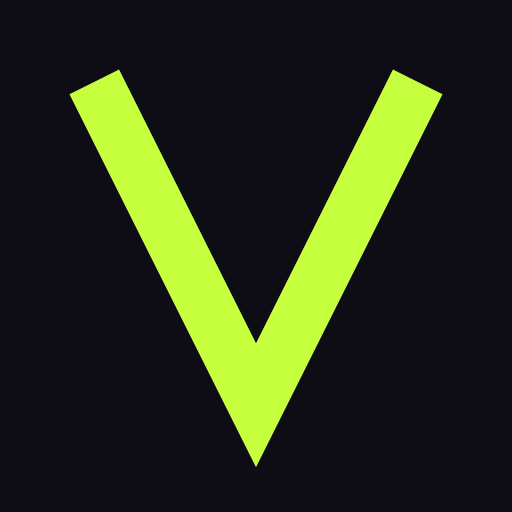
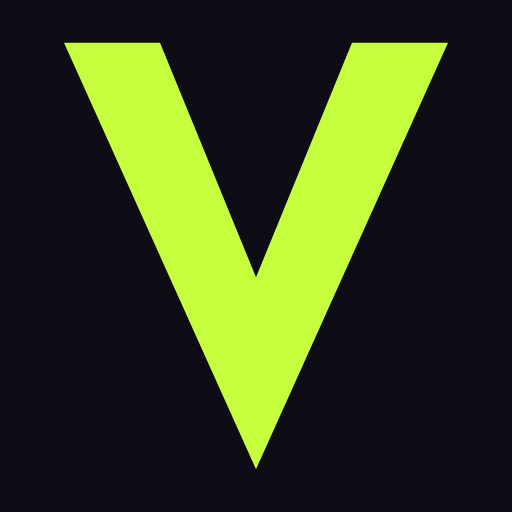
New graphic V mark, hover dropdowns for Services/Produits
Replace the thin chevron favicon with a bold solid V mark; add
icon+wordmark lockup in nav/footer. Add hover-triggered dropdown
menus on Services (4 offerings) and Produits (Solen) nav items.

diff --git a/services.html b/services.html
@@ -19,10 +19,46 @@
 <body>
 
 <nav>
-  <a href="index.html" class="logo">VERZ<span class="dot">O</span></a>
+  <a href="index.html" class="logo">
+    <svg width="20" height="20" viewBox="0 0 24 24" aria-hidden="true"><polygon points="3,2 12,22 21,2 16.5,2 12,13 7.5,2" fill="#C6FF3D"/></svg>
+    VERZ<span class="dot">O</span>
+  </a>
   <div class="navlinks">
-    <a href="services.html" class="navlink active">Services</a>
-    <a href="produits.html" class="navlink">Produits</a>
+    <div class="nav-has-dropdown">
+      <a href="services.html" class="navlink active">Services</a>
+      <div class="nav-dropdown">
+        <a class="nav-dropdown-item" href="services.html#mobile">
+          <svg aria-hidden="true" width="20" height="20" viewBox="0 0 24 24" fill="none" stroke="var(--white)" stroke-width="1.5" stroke-linecap="round" stroke-linejoin="round"><rect x="7" y="2" width="10" height="20" rx="2"/><line x1="11" y1="18" x2="13" y2="18"/></svg>
+          <div class="title">Mobile App</div>
+          <div class="desc">iOS et Android, natif ou cross-platform.</div>
+        </a>
+        <a class="nav-dropdown-item" href="services.html#website">
+          <svg aria-hidden="true" width="20" height="20" viewBox="0 0 24 24" fill="none" stroke="var(--white)" stroke-width="1.5" stroke-linecap="round" stroke-linejoin="round"><rect x="2" y="4" width="20" height="16" rx="2"/><line x1="2" y1="9" x2="22" y2="9"/></svg>
+          <div class="title">Website</div>
+          <div class="desc">Sites rapides, pensés pour convertir.</div>
+        </a>
+        <a class="nav-dropdown-item" href="services.html#brand">
+          <svg aria-hidden="true" width="20" height="20" viewBox="0 0 24 24" fill="none" stroke="var(--white)" stroke-width="1.5" stroke-linecap="round" stroke-linejoin="round"><path d="M4 20l4-1 10-10-3-3L5 16l-1 4z"/><path d="M14 6l3 3"/></svg>
+          <div class="title">Brand Identity</div>
+          <div class="desc">Logo, charte, ton de voix.</div>
+        </a>
+        <a class="nav-dropdown-item" href="services.html#software">
+          <svg aria-hidden="true" width="20" height="20" viewBox="0 0 24 24" fill="none" stroke="var(--white)" stroke-width="1.5" stroke-linecap="round" stroke-linejoin="round"><rect x="2" y="4" width="20" height="16" rx="2"/><polyline points="6 9 10 12 6 15"/><line x1="12" y1="15" x2="17" y2="15"/></svg>
+          <div class="title">Custom Software</div>
+          <div class="desc">Outils internes, dashboards, automatisations.</div>
+        </a>
+      </div>
+    </div>
+    <div class="nav-has-dropdown">
+      <a href="produits.html" class="navlink">Produits</a>
+      <div class="nav-dropdown nav-dropdown-single">
+        <a class="nav-dropdown-item" href="produits.html">
+          <svg aria-hidden="true" width="20" height="20" viewBox="0 0 24 24" fill="none" stroke="var(--white)" stroke-width="1.5" stroke-linecap="round" stroke-linejoin="round"><polyline points="3 17 9 11 13 15 21 6"/><polyline points="14 6 21 6 21 13"/></svg>
+          <div class="title">Solen <span style="color:var(--lime); font-weight:600;">· Coming soon</span></div>
+          <div class="desc">IA d'analyse comportementale pour sites web, en développement.</div>
+        </a>
+      </div>
+    </div>
     <a href="studio.html" class="navlink">Studio</a>
     <a href="contact.html" class="navlink">Contact</a>
     <a class="btn-primary" href="mailto:hello@verzo.studio">Démarrer un projet</a>
@@ -40,7 +76,7 @@
 <section class="on-black reveal">
   <div class="wrap">
     <div class="services-grid reveal-stagger" style="border-color:var(--line-dark);">
-      <div class="service-card" style="border-color:var(--line-dark);">
+      <div id="mobile" class="service-card" style="border-color:var(--line-dark); scroll-margin-top:96px;">
         <span class="kicker mono" style="margin-bottom:0;">01</span>
         <h3>Mobile App</h3>
         <p>Applications iOS et Android, natives ou cross-platform (React Native / Flutter selon le besoin). Pensées pour être utilisées, pas seulement téléchargées.</p>
@@ -51,7 +87,7 @@
           <li>Notifications, paiements in-app, analytics</li>
         </ul>
       </div>
-      <div class="service-card" style="border-color:var(--line-dark);">
+      <div id="website" class="service-card" style="border-color:var(--line-dark); scroll-margin-top:96px;">
         <span class="kicker mono" style="margin-bottom:0;">02</span>
         <h3>Website</h3>
         <p>Sites vitrines et e-commerce rapides, construits pour convertir, pas pour scroller dans le vide.</p>
@@ -62,7 +98,7 @@
           <li>Hébergement et mise en production</li>
         </ul>
       </div>
-      <div class="service-card" style="border-color:var(--line-dark);">
+      <div id="brand" class="service-card" style="border-color:var(--line-dark); scroll-margin-top:96px;">
         <span class="kicker mono" style="margin-bottom:0;">03</span>
         <h3>Brand Identity</h3>
         <p>Logo, charte, ton de voix. Une identité qui tient debout sur une carte de visite comme sur un panneau 4x3.</p>
@@ -72,7 +108,7 @@
           <li>Déclinaisons print et digital</li>
         </ul>
       </div>
-      <div class="service-card" style="border-color:var(--line-dark);">
+      <div id="software" class="service-card" style="border-color:var(--line-dark); scroll-margin-top:96px;">
         <span class="kicker mono" style="margin-bottom:0;">04</span>
         <h3>Custom Software</h3>
         <p>Outils internes, dashboards, automatisations. Le logiciel que votre équipe ouvre vraiment, tous les jours.</p>
@@ -106,7 +142,10 @@
 </section>
 
 <footer>
-  <a href="index.html" class="logo">VERZ<span style="color:var(--lime);">O</span></a>
+  <a href="index.html" class="logo">
+    <svg width="20" height="20" viewBox="0 0 24 24" aria-hidden="true"><polygon points="3,2 12,22 21,2 16.5,2 12,13 7.5,2" fill="#C6FF3D"/></svg>
+    VERZ<span class="dot">O</span>
+  </a>
   <div>© 2026 Verzo, agence produit, France</div>
 </footer>
 

diff --git a/produits.html b/produits.html
@@ -19,10 +19,46 @@
 <body>
 
 <nav>
-  <a href="index.html" class="logo">VERZ<span class="dot">O</span></a>
+  <a href="index.html" class="logo">
+    <svg width="20" height="20" viewBox="0 0 24 24" aria-hidden="true"><polygon points="3,2 12,22 21,2 16.5,2 12,13 7.5,2" fill="#C6FF3D"/></svg>
+    VERZ<span class="dot">O</span>
+  </a>
   <div class="navlinks">
-    <a href="services.html" class="navlink">Services</a>
-    <a href="produits.html" class="navlink active">Produits</a>
+    <div class="nav-has-dropdown">
+      <a href="services.html" class="navlink">Services</a>
+      <div class="nav-dropdown">
+        <a class="nav-dropdown-item" href="services.html#mobile">
+          <svg aria-hidden="true" width="20" height="20" viewBox="0 0 24 24" fill="none" stroke="var(--white)" stroke-width="1.5" stroke-linecap="round" stroke-linejoin="round"><rect x="7" y="2" width="10" height="20" rx="2"/><line x1="11" y1="18" x2="13" y2="18"/></svg>
+          <div class="title">Mobile App</div>
+          <div class="desc">iOS et Android, natif ou cross-platform.</div>
+        </a>
+        <a class="nav-dropdown-item" href="services.html#website">
+          <svg aria-hidden="true" width="20" height="20" viewBox="0 0 24 24" fill="none" stroke="var(--white)" stroke-width="1.5" stroke-linecap="round" stroke-linejoin="round"><rect x="2" y="4" width="20" height="16" rx="2"/><line x1="2" y1="9" x2="22" y2="9"/></svg>
+          <div class="title">Website</div>
+          <div class="desc">Sites rapides, pensés pour convertir.</div>
+        </a>
+        <a class="nav-dropdown-item" href="services.html#brand">
+          <svg aria-hidden="true" width="20" height="20" viewBox="0 0 24 24" fill="none" stroke="var(--white)" stroke-width="1.5" stroke-linecap="round" stroke-linejoin="round"><path d="M4 20l4-1 10-10-3-3L5 16l-1 4z"/><path d="M14 6l3 3"/></svg>
+          <div class="title">Brand Identity</div>
+          <div class="desc">Logo, charte, ton de voix.</div>
+        </a>
+        <a class="nav-dropdown-item" href="services.html#software">
+          <svg aria-hidden="true" width="20" height="20" viewBox="0 0 24 24" fill="none" stroke="var(--white)" stroke-width="1.5" stroke-linecap="round" stroke-linejoin="round"><rect x="2" y="4" width="20" height="16" rx="2"/><polyline points="6 9 10 12 6 15"/><line x1="12" y1="15" x2="17" y2="15"/></svg>
+          <div class="title">Custom Software</div>
+          <div class="desc">Outils internes, dashboards, automatisations.</div>
+        </a>
+      </div>
+    </div>
+    <div class="nav-has-dropdown">
+      <a href="produits.html" class="navlink active">Produits</a>
+      <div class="nav-dropdown nav-dropdown-single">
+        <a class="nav-dropdown-item" href="produits.html">
+          <svg aria-hidden="true" width="20" height="20" viewBox="0 0 24 24" fill="none" stroke="var(--white)" stroke-width="1.5" stroke-linecap="round" stroke-linejoin="round"><polyline points="3 17 9 11 13 15 21 6"/><polyline points="14 6 21 6 21 13"/></svg>
+          <div class="title">Solen <span style="color:var(--lime); font-weight:600;">· Coming soon</span></div>
+          <div class="desc">IA d'analyse comportementale pour sites web, en développement.</div>
+        </a>
+      </div>
+    </div>
     <a href="studio.html" class="navlink">Studio</a>
     <a href="contact.html" class="navlink">Contact</a>
     <a class="btn-primary" href="mailto:hello@verzo.studio">Démarrer un projet</a>
@@ -73,7 +109,10 @@
 </section>
 
 <footer>
-  <a href="index.html" class="logo">VERZ<span style="color:var(--lime);">O</span></a>
+  <a href="index.html" class="logo">
+    <svg width="20" height="20" viewBox="0 0 24 24" aria-hidden="true"><polygon points="3,2 12,22 21,2 16.5,2 12,13 7.5,2" fill="#C6FF3D"/></svg>
+    VERZ<span class="dot">O</span>
+  </a>
   <div>© 2026 Verzo, agence produit, France</div>
 </footer>
 

diff --git a/contact.html b/contact.html
@@ -19,10 +19,46 @@
 <body>
 
 <nav>
-  <a href="index.html" class="logo">VERZ<span class="dot">O</span></a>
+  <a href="index.html" class="logo">
+    <svg width="20" height="20" viewBox="0 0 24 24" aria-hidden="true"><polygon points="3,2 12,22 21,2 16.5,2 12,13 7.5,2" fill="#C6FF3D"/></svg>
+    VERZ<span class="dot">O</span>
+  </a>
   <div class="navlinks">
-    <a href="services.html" class="navlink">Services</a>
-    <a href="produits.html" class="navlink">Produits</a>
+    <div class="nav-has-dropdown">
+      <a href="services.html" class="navlink">Services</a>
+      <div class="nav-dropdown">
+        <a class="nav-dropdown-item" href="services.html#mobile">
+          <svg aria-hidden="true" width="20" height="20" viewBox="0 0 24 24" fill="none" stroke="var(--white)" stroke-width="1.5" stroke-linecap="round" stroke-linejoin="round"><rect x="7" y="2" width="10" height="20" rx="2"/><line x1="11" y1="18" x2="13" y2="18"/></svg>
+          <div class="title">Mobile App</div>
+          <div class="desc">iOS et Android, natif ou cross-platform.</div>
+        </a>
+        <a class="nav-dropdown-item" href="services.html#website">
+          <svg aria-hidden="true" width="20" height="20" viewBox="0 0 24 24" fill="none" stroke="var(--white)" stroke-width="1.5" stroke-linecap="round" stroke-linejoin="round"><rect x="2" y="4" width="20" height="16" rx="2"/><line x1="2" y1="9" x2="22" y2="9"/></svg>
+          <div class="title">Website</div>
+          <div class="desc">Sites rapides, pensés pour convertir.</div>
+        </a>
+        <a class="nav-dropdown-item" href="services.html#brand">
+          <svg aria-hidden="true" width="20" height="20" viewBox="0 0 24 24" fill="none" stroke="var(--white)" stroke-width="1.5" stroke-linecap="round" stroke-linejoin="round"><path d="M4 20l4-1 10-10-3-3L5 16l-1 4z"/><path d="M14 6l3 3"/></svg>
+          <div class="title">Brand Identity</div>
+          <div class="desc">Logo, charte, ton de voix.</div>
+        </a>
+        <a class="nav-dropdown-item" href="services.html#software">
+          <svg aria-hidden="true" width="20" height="20" viewBox="0 0 24 24" fill="none" stroke="var(--white)" stroke-width="1.5" stroke-linecap="round" stroke-linejoin="round"><rect x="2" y="4" width="20" height="16" rx="2"/><polyline points="6 9 10 12 6 15"/><line x1="12" y1="15" x2="17" y2="15"/></svg>
+          <div class="title">Custom Software</div>
+          <div class="desc">Outils internes, dashboards, automatisations.</div>
+        </a>
+      </div>
+    </div>
+    <div class="nav-has-dropdown">
+      <a href="produits.html" class="navlink">Produits</a>
+      <div class="nav-dropdown nav-dropdown-single">
+        <a class="nav-dropdown-item" href="produits.html">
+          <svg aria-hidden="true" width="20" height="20" viewBox="0 0 24 24" fill="none" stroke="var(--white)" stroke-width="1.5" stroke-linecap="round" stroke-linejoin="round"><polyline points="3 17 9 11 13 15 21 6"/><polyline points="14 6 21 6 21 13"/></svg>
+          <div class="title">Solen <span style="color:var(--lime); font-weight:600;">· Coming soon</span></div>
+          <div class="desc">IA d'analyse comportementale pour sites web, en développement.</div>
+        </a>
+      </div>
+    </div>
     <a href="studio.html" class="navlink">Studio</a>
     <a href="contact.html" class="navlink active">Contact</a>
     <a class="btn-primary" href="mailto:hello@verzo.studio">Démarrer un projet</a>
@@ -70,7 +106,10 @@
 </section>
 
 <footer>
-  <a href="index.html" class="logo">VERZ<span style="color:var(--lime);">O</span></a>
+  <a href="index.html" class="logo">
+    <svg width="20" height="20" viewBox="0 0 24 24" aria-hidden="true"><polygon points="3,2 12,22 21,2 16.5,2 12,13 7.5,2" fill="#C6FF3D"/></svg>
+    VERZ<span class="dot">O</span>
+  </a>
   <div>© 2026 Verzo, agence produit, France</div>
 </footer>
 

diff --git a/studio.html b/studio.html
@@ -19,10 +19,46 @@
 <body>
 
 <nav>
-  <a href="index.html" class="logo">VERZ<span class="dot">O</span></a>
+  <a href="index.html" class="logo">
+    <svg width="20" height="20" viewBox="0 0 24 24" aria-hidden="true"><polygon points="3,2 12,22 21,2 16.5,2 12,13 7.5,2" fill="#C6FF3D"/></svg>
+    VERZ<span class="dot">O</span>
+  </a>
   <div class="navlinks">
-    <a href="services.html" class="navlink">Services</a>
-    <a href="produits.html" class="navlink">Produits</a>
+    <div class="nav-has-dropdown">
+      <a href="services.html" class="navlink">Services</a>
+      <div class="nav-dropdown">
+        <a class="nav-dropdown-item" href="services.html#mobile">
+          <svg aria-hidden="true" width="20" height="20" viewBox="0 0 24 24" fill="none" stroke="var(--white)" stroke-width="1.5" stroke-linecap="round" stroke-linejoin="round"><rect x="7" y="2" width="10" height="20" rx="2"/><line x1="11" y1="18" x2="13" y2="18"/></svg>
+          <div class="title">Mobile App</div>
+          <div class="desc">iOS et Android, natif ou cross-platform.</div>
+        </a>
+        <a class="nav-dropdown-item" href="services.html#website">
+          <svg aria-hidden="true" width="20" height="20" viewBox="0 0 24 24" fill="none" stroke="var(--white)" stroke-width="1.5" stroke-linecap="round" stroke-linejoin="round"><rect x="2" y="4" width="20" height="16" rx="2"/><line x1="2" y1="9" x2="22" y2="9"/></svg>
+          <div class="title">Website</div>
+          <div class="desc">Sites rapides, pensés pour convertir.</div>
+        </a>
+        <a class="nav-dropdown-item" href="services.html#brand">
+          <svg aria-hidden="true" width="20" height="20" viewBox="0 0 24 24" fill="none" stroke="var(--white)" stroke-width="1.5" stroke-linecap="round" stroke-linejoin="round"><path d="M4 20l4-1 10-10-3-3L5 16l-1 4z"/><path d="M14 6l3 3"/></svg>
+          <div class="title">Brand Identity</div>
+          <div class="desc">Logo, charte, ton de voix.</div>
+        </a>
+        <a class="nav-dropdown-item" href="services.html#software">
+          <svg aria-hidden="true" width="20" height="20" viewBox="0 0 24 24" fill="none" stroke="var(--white)" stroke-width="1.5" stroke-linecap="round" stroke-linejoin="round"><rect x="2" y="4" width="20" height="16" rx="2"/><polyline points="6 9 10 12 6 15"/><line x1="12" y1="15" x2="17" y2="15"/></svg>
+          <div class="title">Custom Software</div>
+          <div class="desc">Outils internes, dashboards, automatisations.</div>
+        </a>
+      </div>
+    </div>
+    <div class="nav-has-dropdown">
+      <a href="produits.html" class="navlink">Produits</a>
+      <div class="nav-dropdown nav-dropdown-single">
+        <a class="nav-dropdown-item" href="produits.html">
+          <svg aria-hidden="true" width="20" height="20" viewBox="0 0 24 24" fill="none" stroke="var(--white)" stroke-width="1.5" stroke-linecap="round" stroke-linejoin="round"><polyline points="3 17 9 11 13 15 21 6"/><polyline points="14 6 21 6 21 13"/></svg>
+          <div class="title">Solen <span style="color:var(--lime); font-weight:600;">· Coming soon</span></div>
+          <div class="desc">IA d'analyse comportementale pour sites web, en développement.</div>
+        </a>
+      </div>
+    </div>
     <a href="studio.html" class="navlink active">Studio</a>
     <a href="contact.html" class="navlink">Contact</a>
     <a class="btn-primary" href="mailto:hello@verzo.studio">Démarrer un projet</a>
@@ -94,7 +130,10 @@
 </section>
 
 <footer>
-  <a href="index.html" class="logo">VERZ<span style="color:var(--lime);">O</span></a>
+  <a href="index.html" class="logo">
+    <svg width="20" height="20" viewBox="0 0 24 24" aria-hidden="true"><polygon points="3,2 12,22 21,2 16.5,2 12,13 7.5,2" fill="#C6FF3D"/></svg>
+    VERZ<span class="dot">O</span>
+  </a>
   <div>© 2026 Verzo, agence produit, France</div>
 </footer>
 

diff --git a/index.html b/index.html
@@ -19,10 +19,46 @@
 <body>
 
 <nav>
-  <a href="index.html" class="logo">VERZ<span class="dot">O</span></a>
+  <a href="index.html" class="logo">
+    <svg width="20" height="20" viewBox="0 0 24 24" aria-hidden="true"><polygon points="3,2 12,22 21,2 16.5,2 12,13 7.5,2" fill="#C6FF3D"/></svg>
+    VERZ<span class="dot">O</span>
+  </a>
   <div class="navlinks">
-    <a href="services.html" class="navlink">Services</a>
-    <a href="produits.html" class="navlink">Produits</a>
+    <div class="nav-has-dropdown">
+      <a href="services.html" class="navlink">Services</a>
+      <div class="nav-dropdown">
+        <a class="nav-dropdown-item" href="services.html#mobile">
+          <svg aria-hidden="true" width="20" height="20" viewBox="0 0 24 24" fill="none" stroke="var(--white)" stroke-width="1.5" stroke-linecap="round" stroke-linejoin="round"><rect x="7" y="2" width="10" height="20" rx="2"/><line x1="11" y1="18" x2="13" y2="18"/></svg>
+          <div class="title">Mobile App</div>
+          <div class="desc">iOS et Android, natif ou cross-platform.</div>
+        </a>
+        <a class="nav-dropdown-item" href="services.html#website">
+          <svg aria-hidden="true" width="20" height="20" viewBox="0 0 24 24" fill="none" stroke="var(--white)" stroke-width="1.5" stroke-linecap="round" stroke-linejoin="round"><rect x="2" y="4" width="20" height="16" rx="2"/><line x1="2" y1="9" x2="22" y2="9"/></svg>
+          <div class="title">Website</div>
+          <div class="desc">Sites rapides, pensés pour convertir.</div>
+        </a>
+        <a class="nav-dropdown-item" href="services.html#brand">
+          <svg aria-hidden="true" width="20" height="20" viewBox="0 0 24 24" fill="none" stroke="var(--white)" stroke-width="1.5" stroke-linecap="round" stroke-linejoin="round"><path d="M4 20l4-1 10-10-3-3L5 16l-1 4z"/><path d="M14 6l3 3"/></svg>
+          <div class="title">Brand Identity</div>
+          <div class="desc">Logo, charte, ton de voix.</div>
+        </a>
+        <a class="nav-dropdown-item" href="services.html#software">
+          <svg aria-hidden="true" width="20" height="20" viewBox="0 0 24 24" fill="none" stroke="var(--white)" stroke-width="1.5" stroke-linecap="round" stroke-linejoin="round"><rect x="2" y="4" width="20" height="16" rx="2"/><polyline points="6 9 10 12 6 15"/><line x1="12" y1="15" x2="17" y2="15"/></svg>
+          <div class="title">Custom Software</div>
+          <div class="desc">Outils internes, dashboards, automatisations.</div>
+        </a>
+      </div>
+    </div>
+    <div class="nav-has-dropdown">
+      <a href="produits.html" class="navlink">Produits</a>
+      <div class="nav-dropdown nav-dropdown-single">
+        <a class="nav-dropdown-item" href="produits.html">
+          <svg aria-hidden="true" width="20" height="20" viewBox="0 0 24 24" fill="none" stroke="var(--white)" stroke-width="1.5" stroke-linecap="round" stroke-linejoin="round"><polyline points="3 17 9 11 13 15 21 6"/><polyline points="14 6 21 6 21 13"/></svg>
+          <div class="title">Solen <span style="color:var(--lime); font-weight:600;">· Coming soon</span></div>
+          <div class="desc">IA d'analyse comportementale pour sites web, en développement.</div>
+        </a>
+      </div>
+    </div>
     <a href="studio.html" class="navlink">Studio</a>
     <a href="contact.html" class="navlink">Contact</a>
     <a class="btn-primary" href="mailto:hello@verzo.studio">Démarrer un projet</a>
@@ -208,7 +244,10 @@
 </section>
 
 <footer>
-  <a href="index.html" class="logo">VERZ<span style="color:var(--lime);">O</span></a>
+  <a href="index.html" class="logo">
+    <svg width="20" height="20" viewBox="0 0 24 24" aria-hidden="true"><polygon points="3,2 12,22 21,2 16.5,2 12,13 7.5,2" fill="#C6FF3D"/></svg>
+    VERZ<span class="dot">O</span>
+  </a>
   <div>© 2026 Verzo, agence produit, France</div>
 </footer>
 

diff --git a/styles.css b/styles.css
@@ -41,12 +41,41 @@ nav{
   backdrop-filter:blur(10px);
   border-bottom:1px solid var(--line-dark);
 }
-.logo{font-weight:800; font-size:19px;}
+.logo{display:inline-flex; align-items:center; gap:8px; font-weight:800; font-size:19px;}
 .logo .dot{color:var(--lime);}
+.logo svg{flex-shrink:0;}
 .navlinks{display:flex; align-items:center; gap:28px;}
 .navlink{font-size:13.5px; color:var(--grey); transition:color .15s;}
 .navlink:hover, .navlink.active{color:var(--white);}
 .navlinks-mobile-toggle{display:none;}
+
+/* nav hover dropdown */
+.nav-has-dropdown{position:relative;}
+.nav-dropdown{
+  position:absolute; top:100%; left:50%; transform:translate(-50%, 6px);
+  width:520px; margin-top:14px; padding:24px;
+  background:var(--ink-soft); border:1px solid var(--line-dark);
+  box-shadow:0 24px 48px rgba(0,0,0,0.45);
+  display:grid; grid-template-columns:repeat(2, 1fr); gap:1px; background-color:var(--line-dark);
+  opacity:0; visibility:hidden; transition:opacity .15s ease, transform .15s ease;
+  z-index:40;
+}
+.nav-dropdown::before{
+  content:""; position:absolute; top:-14px; left:0; right:0; height:14px;
+}
+.nav-has-dropdown:hover .nav-dropdown,
+.nav-has-dropdown:focus-within .nav-dropdown{
+  opacity:1; visibility:visible; transform:translate(-50%, 0);
+}
+.nav-dropdown-item{background:var(--ink-soft); padding:18px; display:flex; flex-direction:column; gap:8px; text-align:left;}
+.nav-dropdown-item svg{flex-shrink:0;}
+.nav-dropdown-item .title{font-weight:700; font-size:13.5px; color:var(--white);}
+.nav-dropdown-item .desc{font-size:12px; color:var(--grey); line-height:1.5;}
+.nav-dropdown-item:hover .title{color:var(--lime);}
+.nav-dropdown-single{grid-template-columns:1fr;}
+@media (max-width:900px){
+  .nav-dropdown{display:none;}
+}
 
 .btn-primary{
   display:inline-flex; align-items:center; gap:8px;
